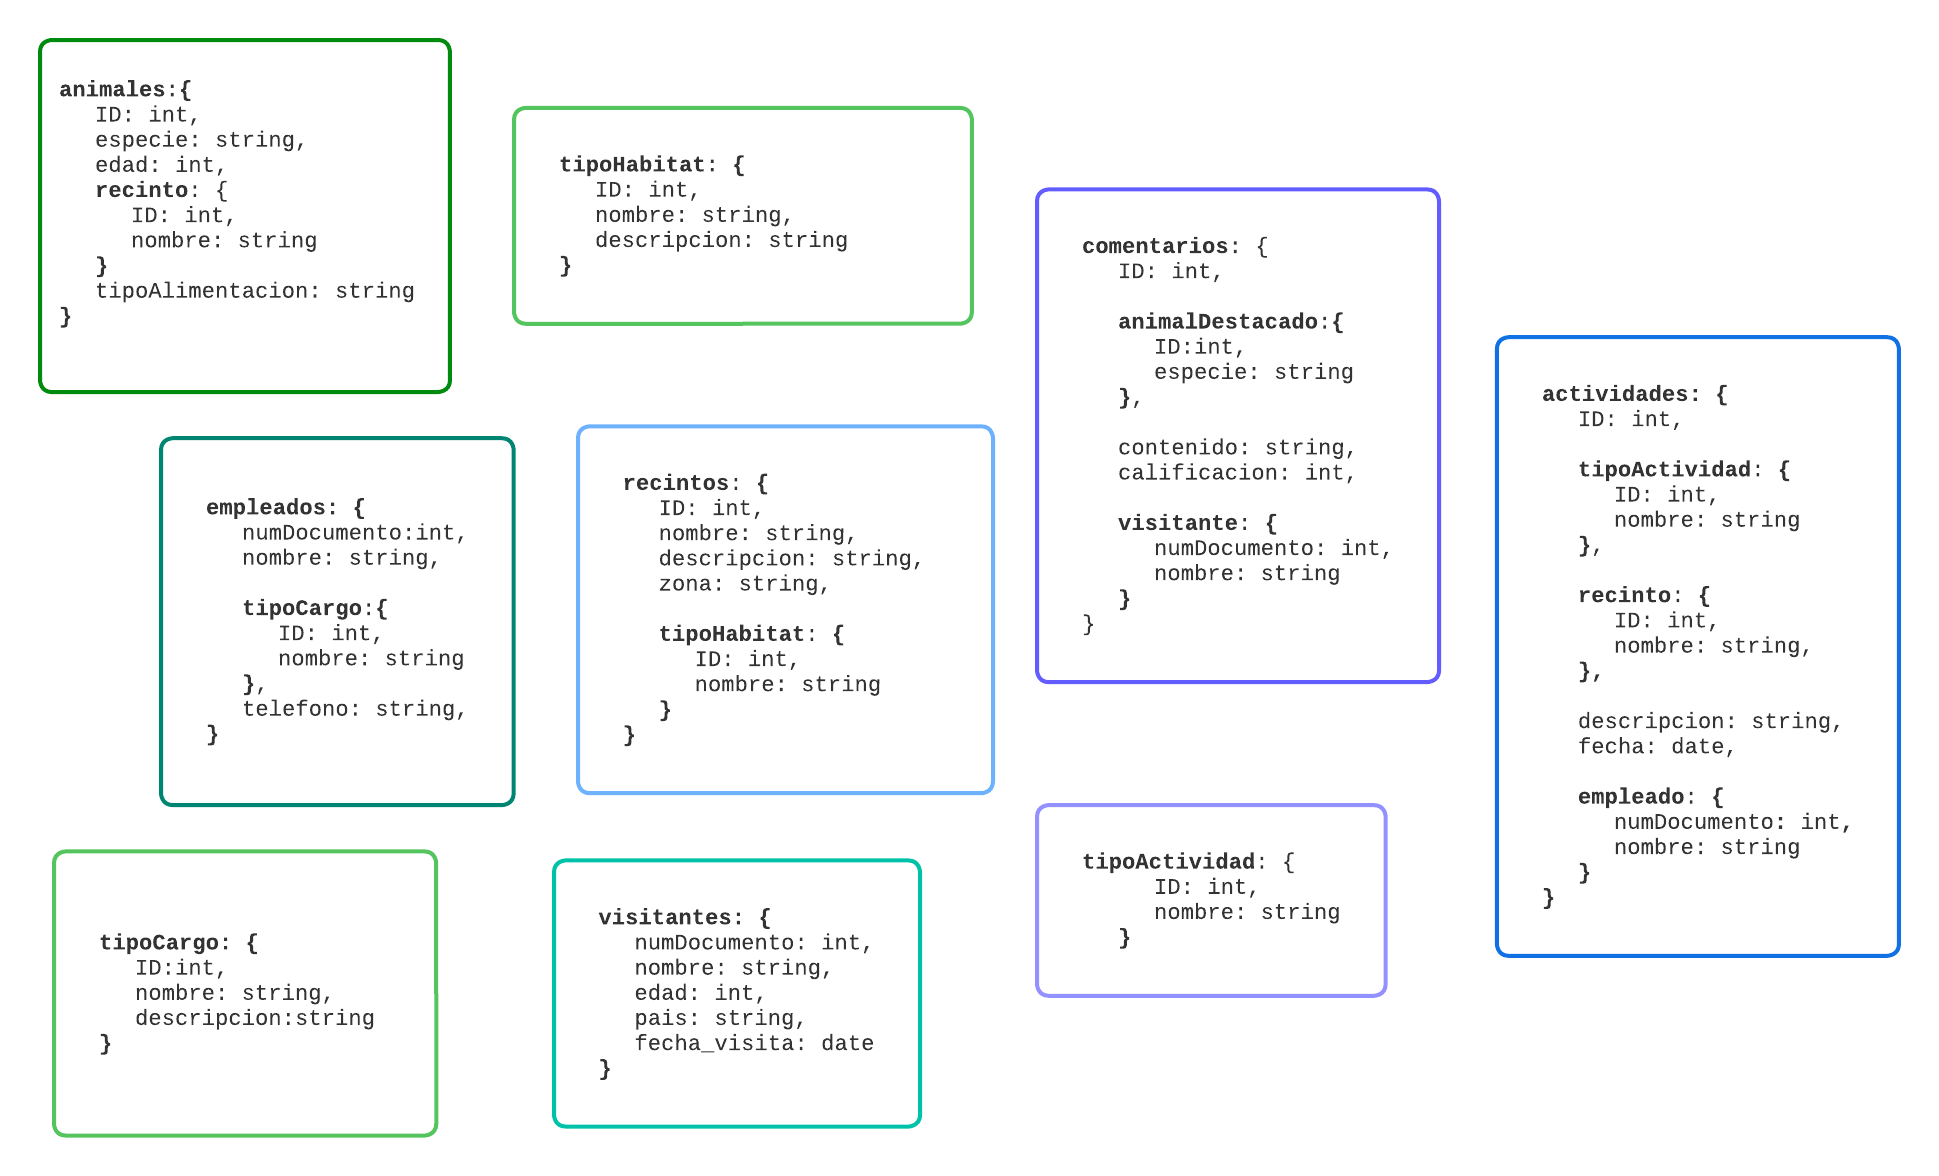
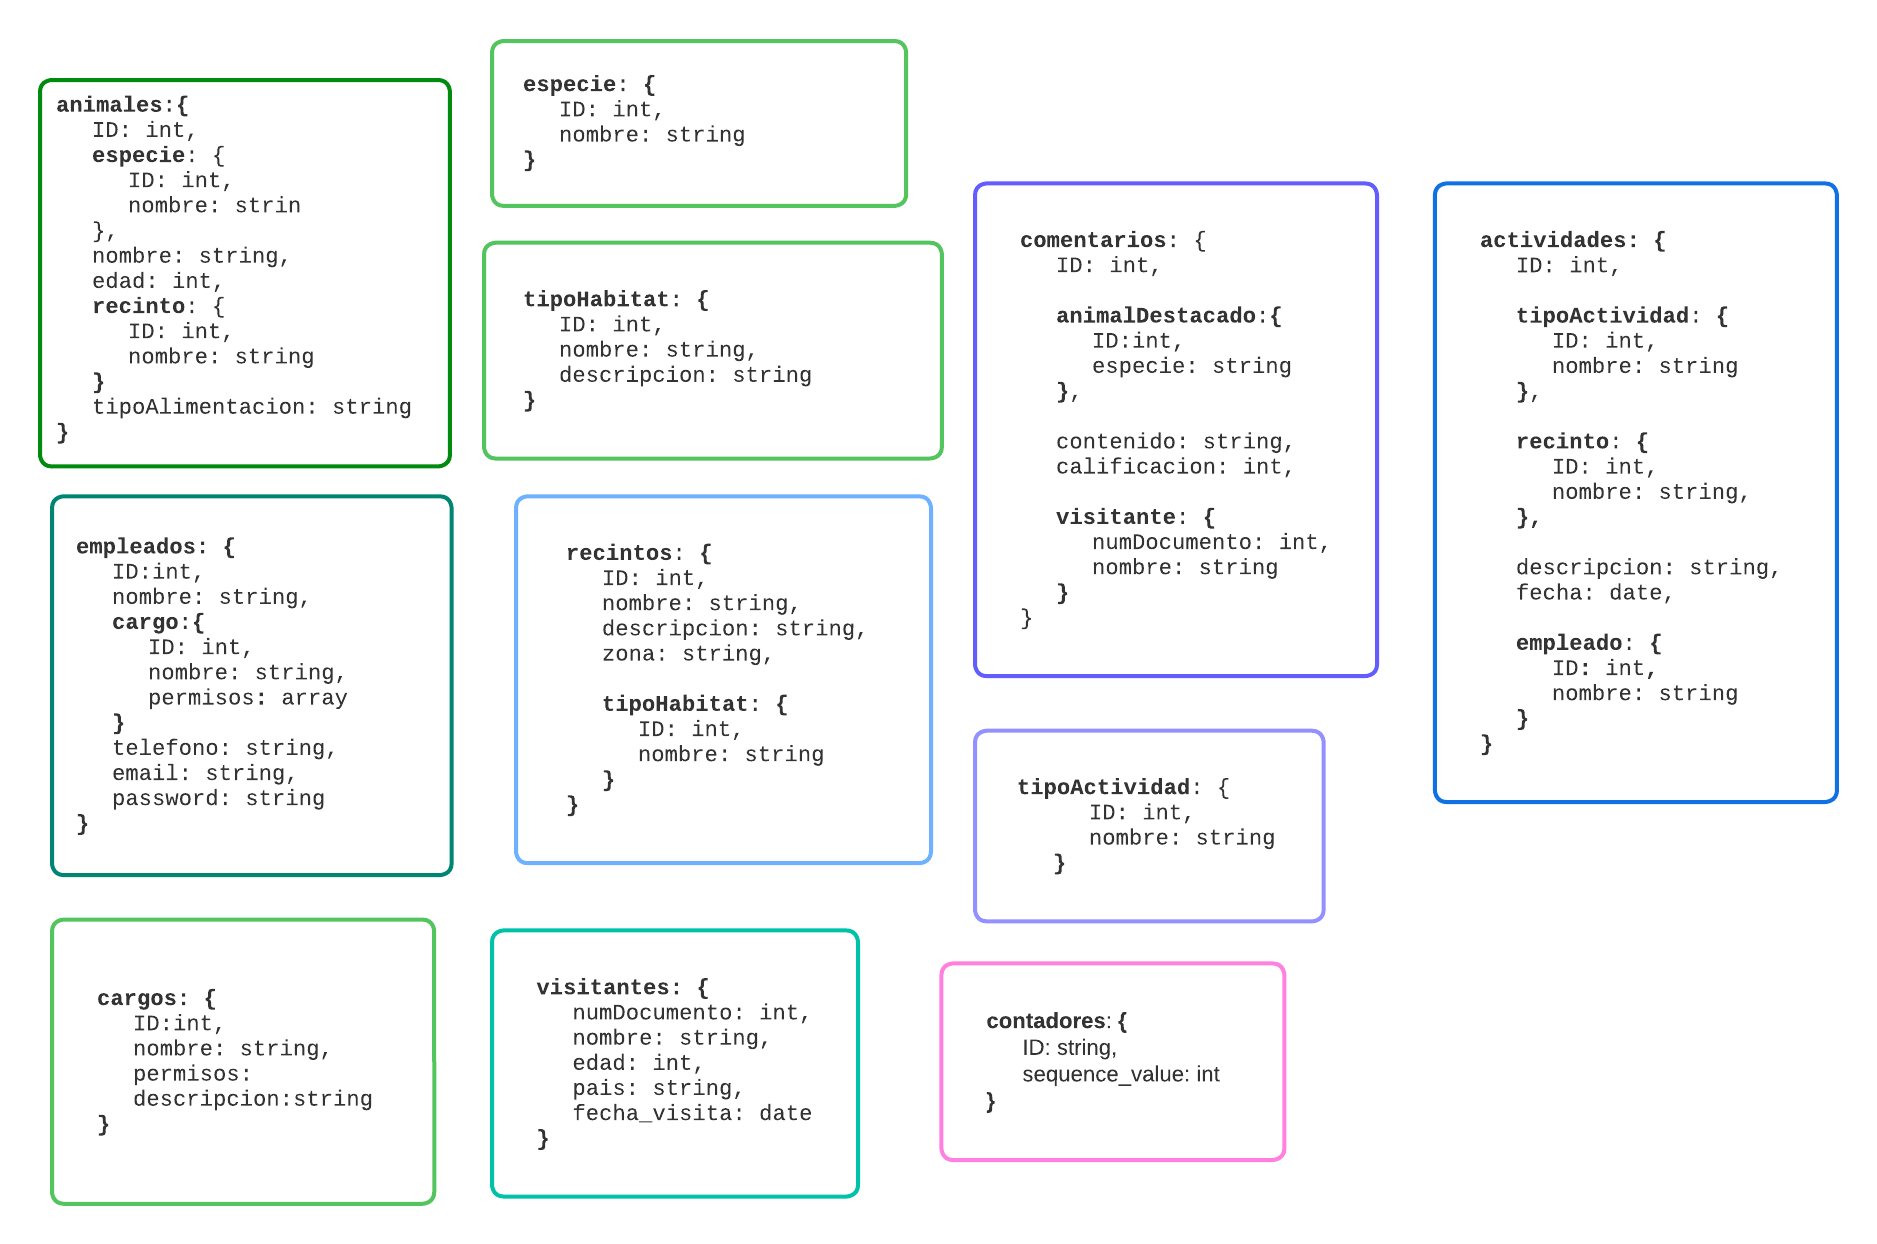
docs: :memo: se actualiza la doc
Se ha modificado el diagrama de la DB y los requerimientos del proyecto

diff --git a/README.md b/README.md
@@ -20,36 +20,39 @@ _Por lo tanto se busca realizar un proyecto el cual permita gestionar a los anim
 ![diagramaDB](./assets/diagramaDB.png)
 
 ## REQUERIMIENTOS
+   **Registrar:**
+   - registrar animales
+   - registrar recintos
+   - registrar cargos
+   - registrar empleados
+   - registrar actividades
+   - visitantes
+   - comentarios
 
 1. **Búsqueda y Filtros:**
 
-   - buscar animales por especie, nombre o hábitat.
-   - filtrar eventos por fecha, tipo o ubicación.
-   - buscar empleados por nombre o cargo.
+   - buscar animales por su id, especie o recinto.
+   - filtrar actividades por fecha, tipo o ubicación.
+   - buscar empleados por su tipo, recinto o empleado.
 
-2. **Alimentación de Animales:**
+2. **Información sobre Visitantes:**
 
-   - registrar la alimentación de un animal en una fecha y hora específicas.
+   - registrar la información de los visitantes del zoológico.
 
-3. **Información sobre Visitantes:**
+3. **Comentarios y Calificaciones:**
 
-   - registrar la información de los visitantes, como nombre, edad, país de origen, etc.
+   - visitantes dejen comentarios y calificaciones sobre los animales.
 
-4. **Comentarios y Calificaciones:**
-
-   - visitantes dejen comentarios y calificaciones sobre los animales, hábitats o eventos.
-
-5. **Estadísticas y Reportes:**
+4. **Estadísticas y Reportes:**
 
    - obtener estadísticas sobre los animales más populares.
 
-6. **Reservas de Eventos:**
+5. **Reservas de Eventos:**
 
-   - visitantes reserven lugares en eventos específicos.
+   - Zoológico registrar actividades diarias del zoológico.
 
-7. **Autenticación y Autorización:**
-   - registro de usuarios.
-   - Asegurar que ciertas acciones (como editar o eliminar registros) solo sean accesibles para usuarios autorizados.
+6. **Autenticación y Autorización:**
+   - Asegurar que ciertos endpoints solo sean accesibles para empleados autorizados.
 
 ## LENGUAJES A UTILIZAR
 
